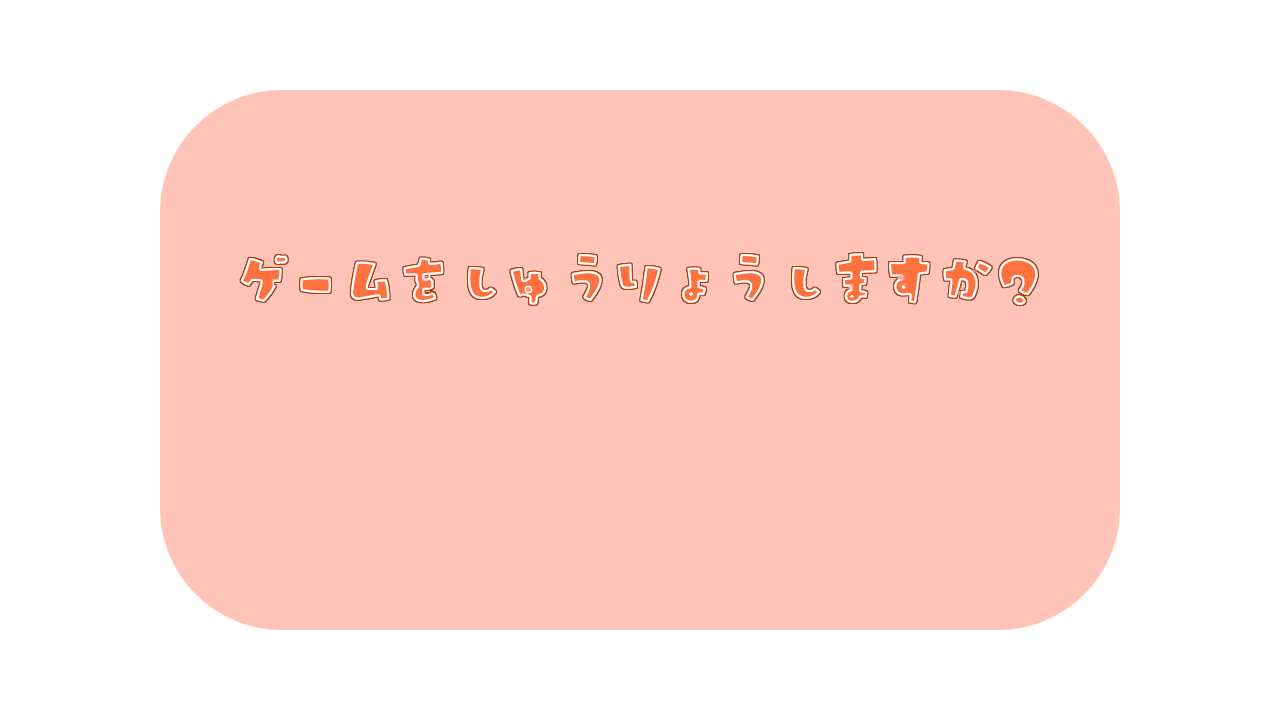
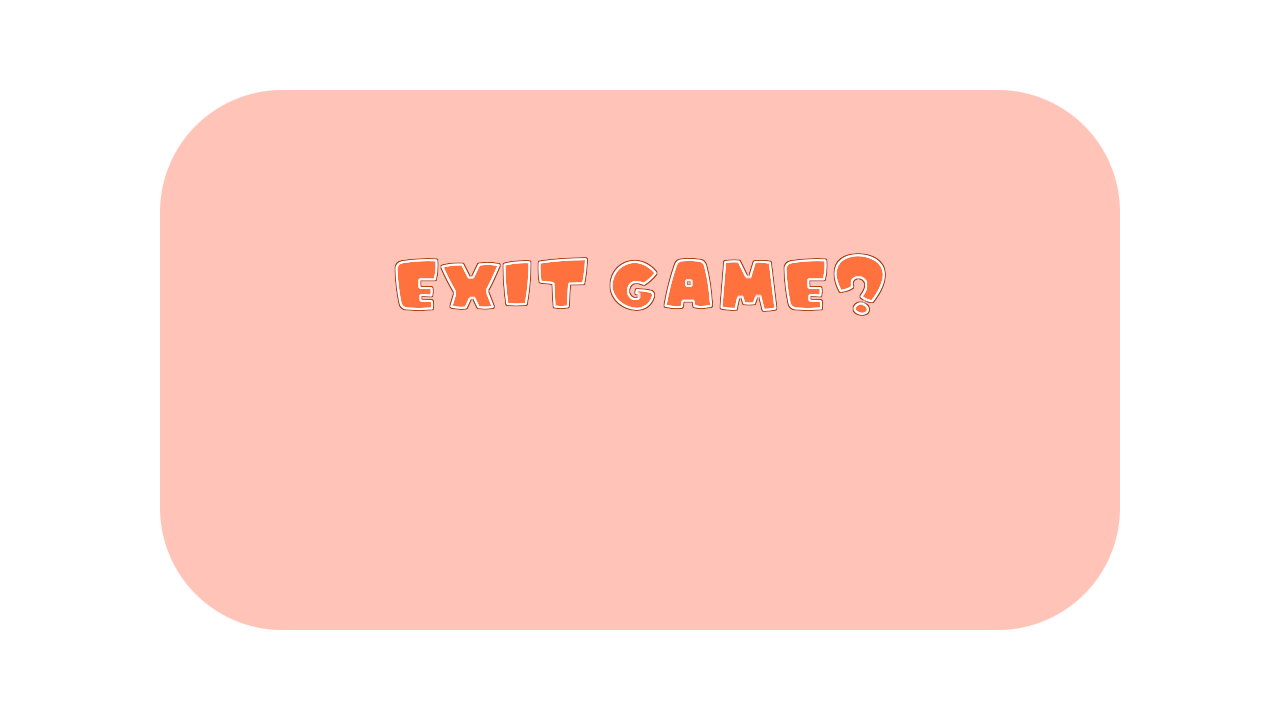
メインメニューの遷移をすべて行えるようにした

Changed region(s): [[0.1875, 0.3361, 0.8125, 0.4583]]

diff --git a/02_ソースコード/PAW!/Src/Scene/SceneManager.cpp b/02_ソースコード/PAW!/Src/Scene/SceneManager.cpp
@@ -14,8 +14,6 @@ SceneManager* SceneManager::instance_ = nullptr;
 SceneManager::SceneManager(void)
 {
 	scenes_.clear();
-	load_ = nullptr;
-	isGameEnd_ = false;
 }
 
 SceneManager::~SceneManager(void)
